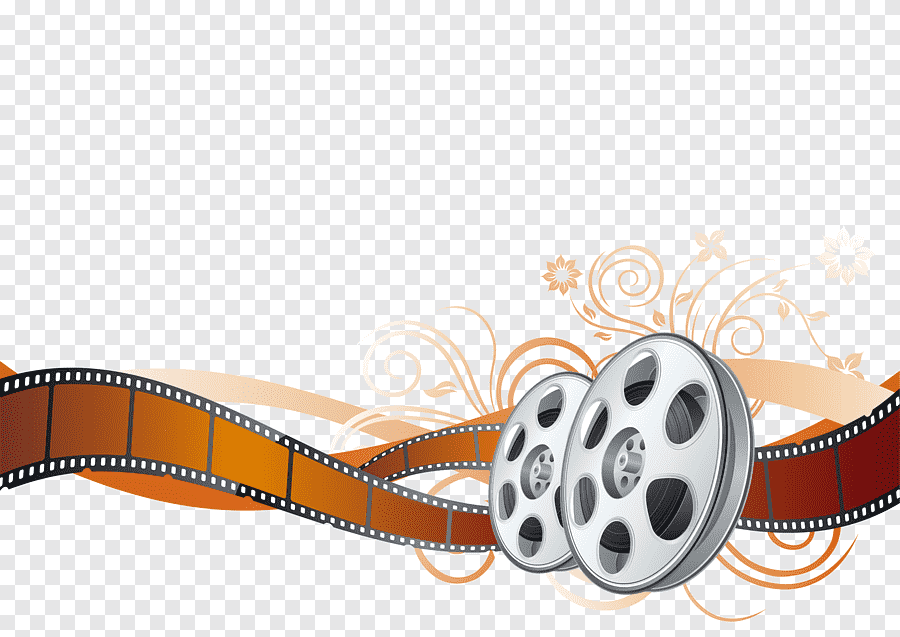
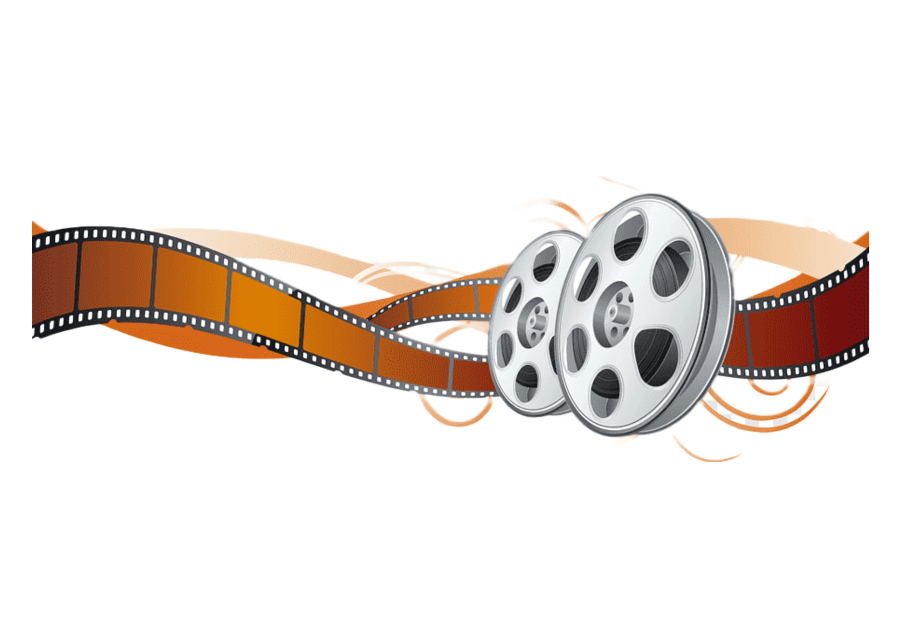
Updated error page image, styling, and imported to app

diff --git a/src/components/App/App.js b/src/components/App/App.js
@@ -3,6 +3,8 @@ import MovieCardContainer from "../MovieCardContainer/MovieCardContainer"
 import SingleMovie from "../SingleMovie/SingleMovie"
 import Header from "../Header/Header";
 import Footer from "../Footer/Footer";
+import ErrorPage from "../ErrorPage/ErrorPage";
+import LoadingPage from "../LoadingPage/LoadingPage";
 import './App.css';
 import { fetchAllMovieData } from '../../apiCalls'
 import { Route, Switch } from "react-router-dom"
@@ -12,13 +14,18 @@ class App extends Component {
     super()
     this.state = {
       movies: [],
+      errorMessage: null
     }
   }
 
   componentDidMount = () => {
     fetchAllMovieData()
     .then(data => this.setState({movies: data.results}))
-    .catch(err => console.error(err));
+    .catch(err => {
+      if (err) {
+        this.setState({ errorMessage: err })
+      }
+      console.error(err)});
   }
 
   render = () => {
@@ -27,7 +34,9 @@ class App extends Component {
         <Header />
           <div className="view-wrapper">
             <Switch>
-            <Route exact path="/" render={() => <MovieCardContainer movies={this.state.movies} /> } />
+            {this.state.errorMessage !== null 
+            ? <Route exact path="/" render={() => <ErrorPage /> }/> 
+            : <Route exact path="/" render={() => <MovieCardContainer movies={this.state.movies} /> } />}
             <Route exact path="/:id" render={({match}) => <SingleMovie id={match.params.id}/> } />
             </Switch>
           </div>

diff --git a/src/components/ErrorPage/ErrorPage.js b/src/components/ErrorPage/ErrorPage.js
@@ -1,14 +1,14 @@
 import React from "react";
 import "./ErrorPage.css"
-import "../../assets/ErrorScreen.png"
+import errorImage from "../../assets/ErrorScreen.png"
 
 
 const ErrorPage = () => {
     return (
-      <div>
+      <div className="error-box">
         <h1>Oops! An error occurred while loading.</h1>
         <h2>We'll be back after we change reels!</h2>
-        <img className="error-image" src="../../assets/ErrorScreen.png" alt="two film canisters with film flowing between them in a fancy loop"></img>
+        <img className="error-image" src={errorImage} alt="two film canisters with film flowing between them in a fancy loop"></img>
       </div>
     )
 }

diff --git a/src/components/ErrorPage/ErrorPage.css b/src/components/ErrorPage/ErrorPage.css
@@ -1,0 +1,10 @@
+.error-box {
+    display: flex;
+    flex-direction: column;
+    color: white;
+    align-items: center;
+}
+
+.error-image {
+    height: 60vh;
+}
